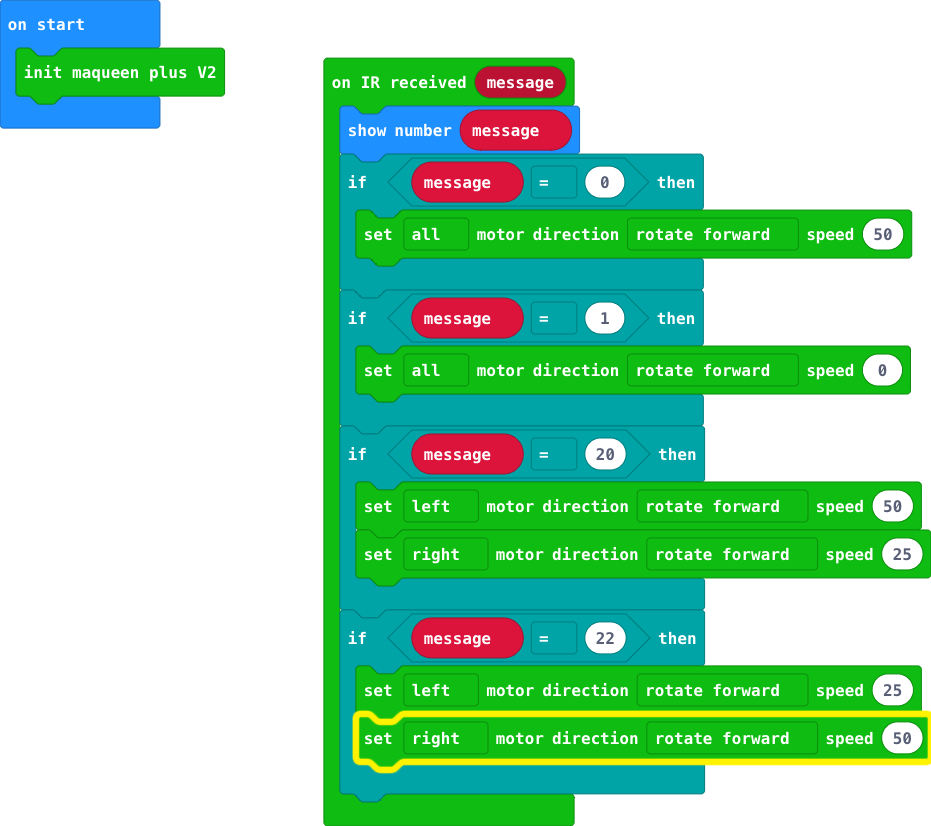
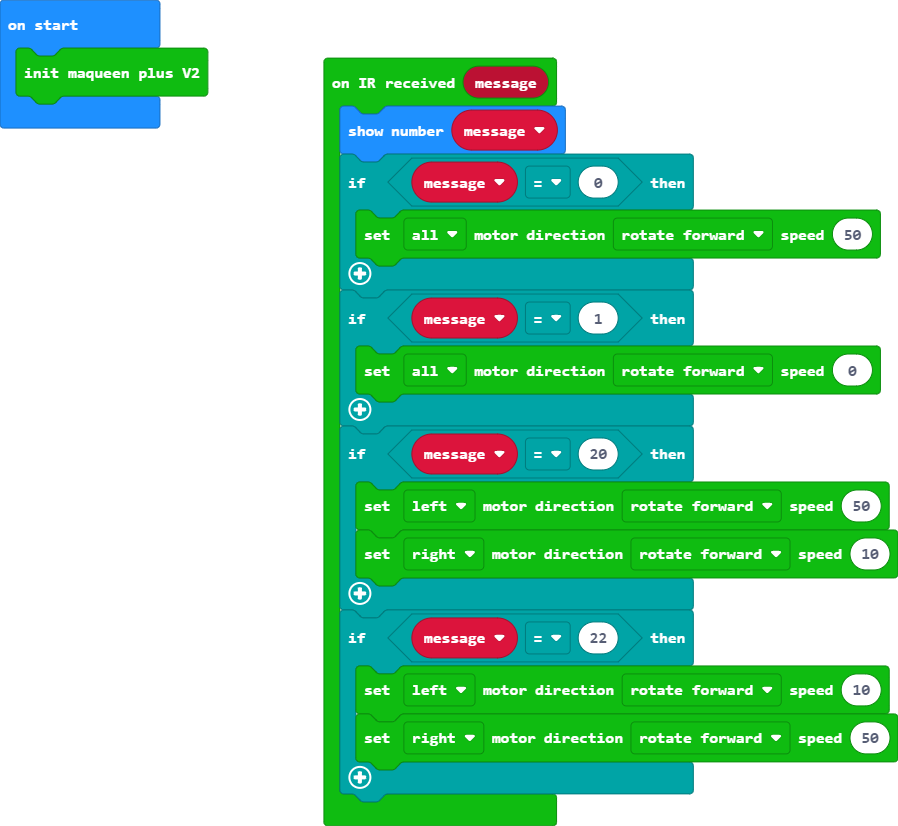
Update main.blocks, main.ts

diff --git a/main.ts b/main.ts
@@ -8,10 +8,10 @@ DFRobotMaqueenPlusV2.onIrDatagram(function (message) {
     }
     if (message == 20) {
         DFRobotMaqueenPlusV2.controlMotor(MyEnumMotor.eLeftMotor, MyEnumDir.eForward, 50)
-        DFRobotMaqueenPlusV2.controlMotor(MyEnumMotor.eRightMotor, MyEnumDir.eForward, 25)
+        DFRobotMaqueenPlusV2.controlMotor(MyEnumMotor.eRightMotor, MyEnumDir.eForward, 10)
     }
     if (message == 22) {
-        DFRobotMaqueenPlusV2.controlMotor(MyEnumMotor.eLeftMotor, MyEnumDir.eForward, 25)
+        DFRobotMaqueenPlusV2.controlMotor(MyEnumMotor.eLeftMotor, MyEnumDir.eForward, 10)
         DFRobotMaqueenPlusV2.controlMotor(MyEnumMotor.eRightMotor, MyEnumDir.eForward, 50)
     }
 })
